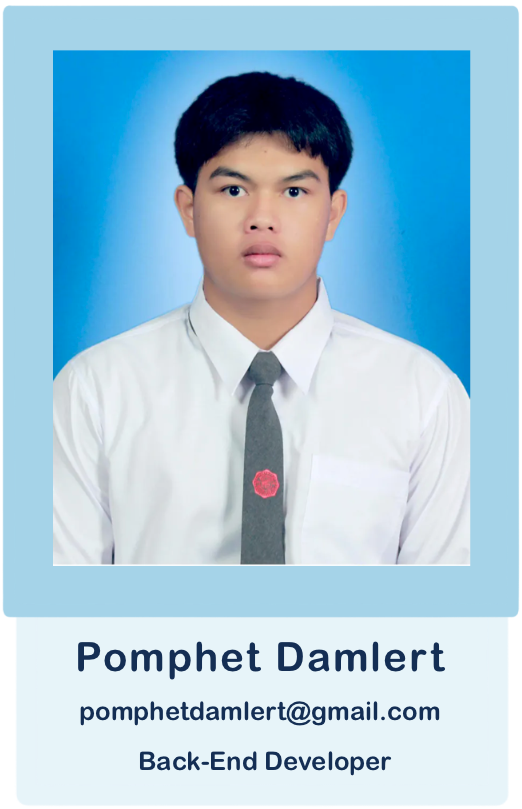
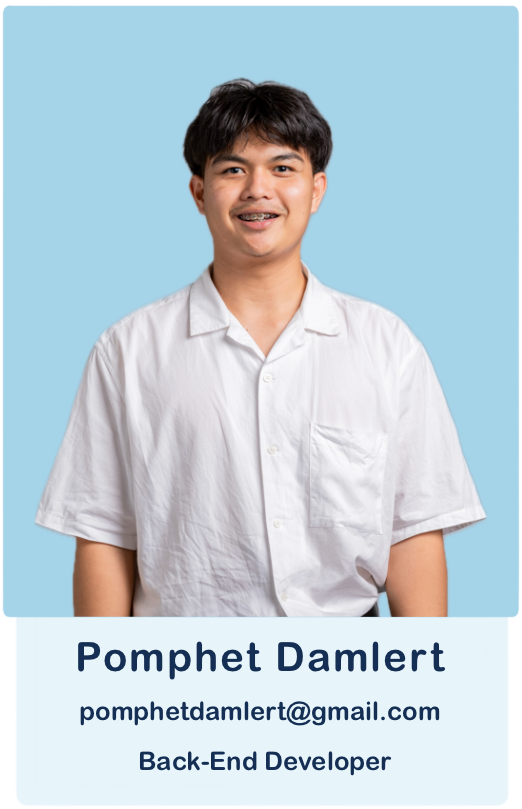
Update AboutUS page

diff --git a/pages/aboutus/specialist/index.js b/pages/aboutus/specialist/index.js
@@ -1,0 +1,22 @@
+import Image from "next/image";
+
+import Navibar from "../../../components/navbar/index";
+
+import ImgSpecLnw from "../../../assets/images/RjarnLnw.png";
+
+const Specialist = () => (
+  <div>
+    <Navibar />
+    <p className="flex justify-center items-center p-6 mt-8 text-black text-5xl md:text-7xl xl:text-8xl font-semibold">
+      Specialist
+    </p>
+
+    <div className="flex flex-col items-center space-y-8 p-10 md:flex-row md:justify-center  md:space-y-0 md:space-x-24">
+      <div className="flex flex-col items-center">
+        <Image className="w-60 md:w-72 " src={ImgSpecLnw} alt="Specialist" />
+      </div>
+    </div>
+  </div>
+);
+
+export default Specialist;

diff --git a/components/navbar/index.js b/components/navbar/index.js
@@ -226,14 +226,12 @@ export default function NaviBar() {
           >
             <DropdownItem href="/aboutus/team">Team members</DropdownItem>
             <DropdownItem href="/aboutus/advisor">Advisors</DropdownItem>
+            <DropdownItem href="/aboutus/specialist">Specialist</DropdownItem>
           </DropdownMenu>
         </Dropdown>
 
         <NavbarItem className="basis-1/4 flex justify-center">
-          <Link
-            className="text-black font-semibold "
-            href="/contact"
-          >
+          <Link className="text-black font-semibold " href="/contact">
             CONTACT US
           </Link>
         </NavbarItem>

diff --git a/pages/aboutus/advisor/index.js b/pages/aboutus/advisor/index.js
@@ -5,7 +5,7 @@ import Navibar from "../../../components/navbar/index";
 import ImgProO from "../../../assets/images/RjarnOak.png";
 import ImgProP from "../../../assets/images/RjarnPat.png";
 
-const Aboutus = () => (
+const Advisor = () => (
   <div>
     <Navibar />
     <p className="flex justify-center items-center p-6 mt-8 text-black text-5xl md:text-7xl xl:text-8xl font-semibold">
@@ -23,4 +23,4 @@ const Aboutus = () => (
   </div>
 );
 
-export default Aboutus;
+export default Advisor;
